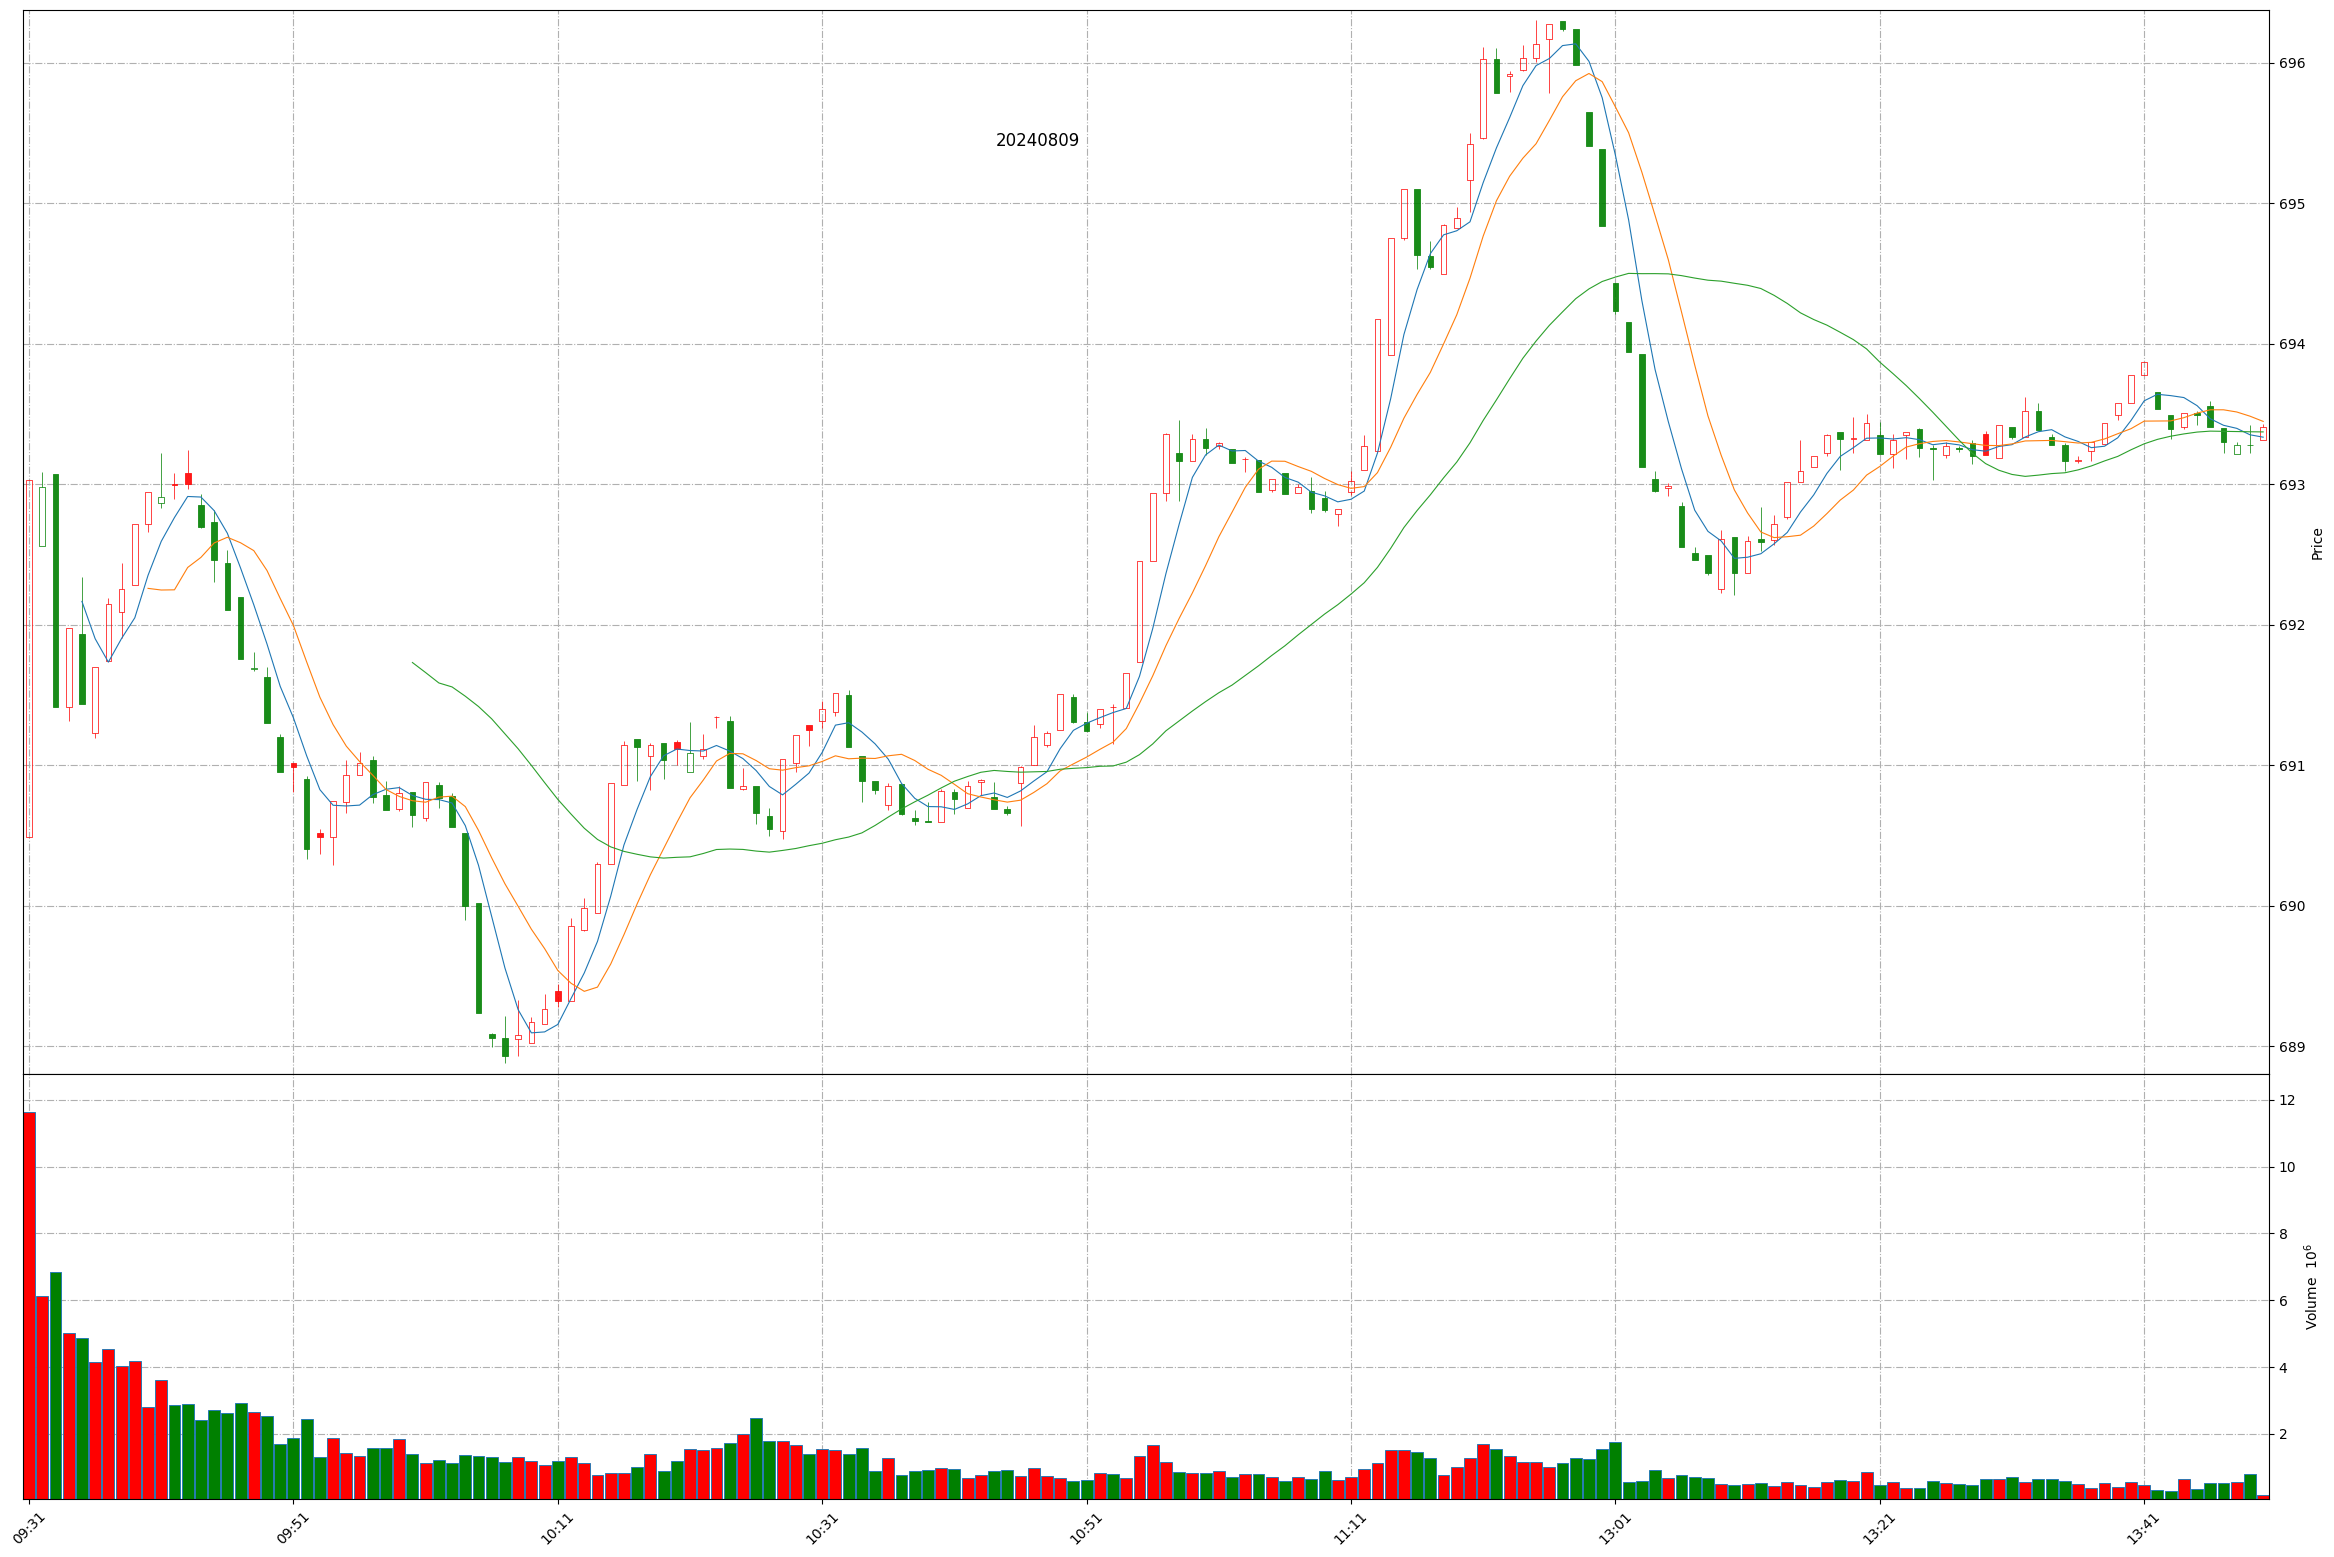
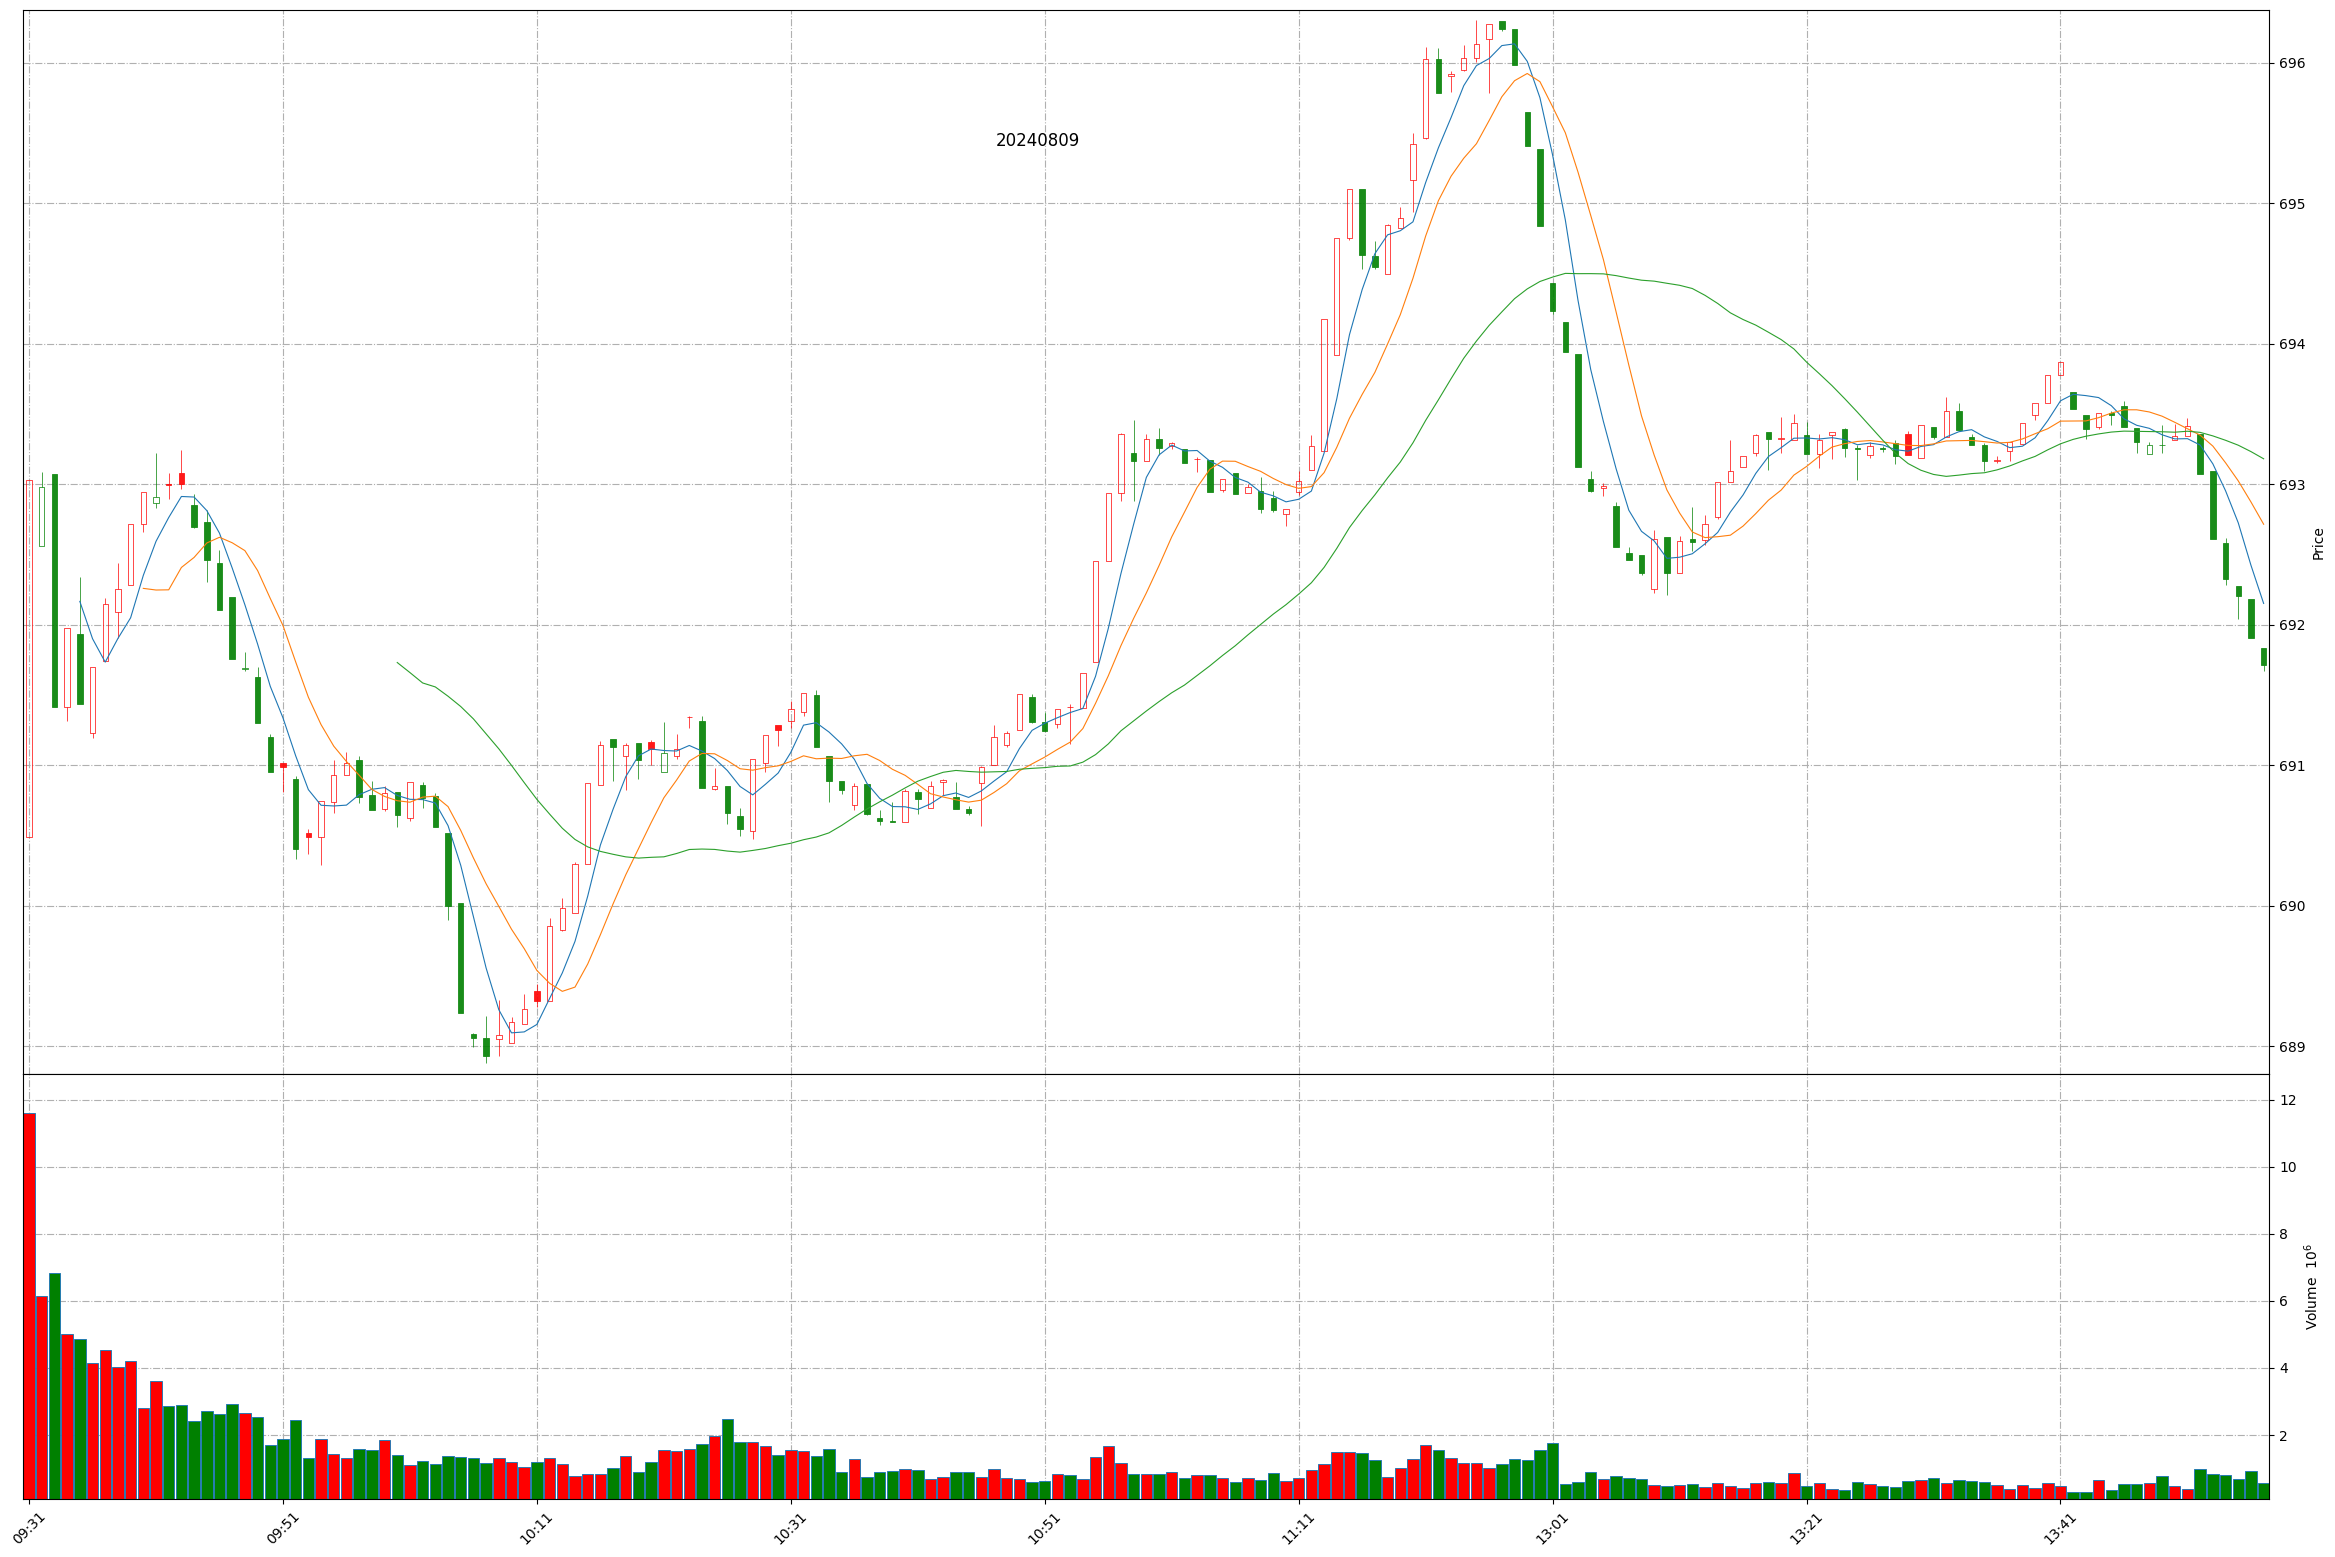
Github action update at 2024-08-09 13:56:55.

diff --git a/README.md b/README.md
@@ -1,11 +1,11 @@
 
 # Daily-A-share-market-quotes 每日 A 股指数（5min 更新）- 20240809
 
-### 上证指数 20240809 13:49
+### 上证指数 20240809 13:56
 ![](./fig/2024/8/20240809-sh000001.png)
 
-### 深证成指 20240809 13:49
+### 深证成指 20240809 13:56
 ![](./fig/2024/8/20240809-sz399001.png)
 
-### 北证50 20240809 13:49
+### 北证50 20240809 13:56
 ![](./fig/2024/8/20240809-bj899050.png)
